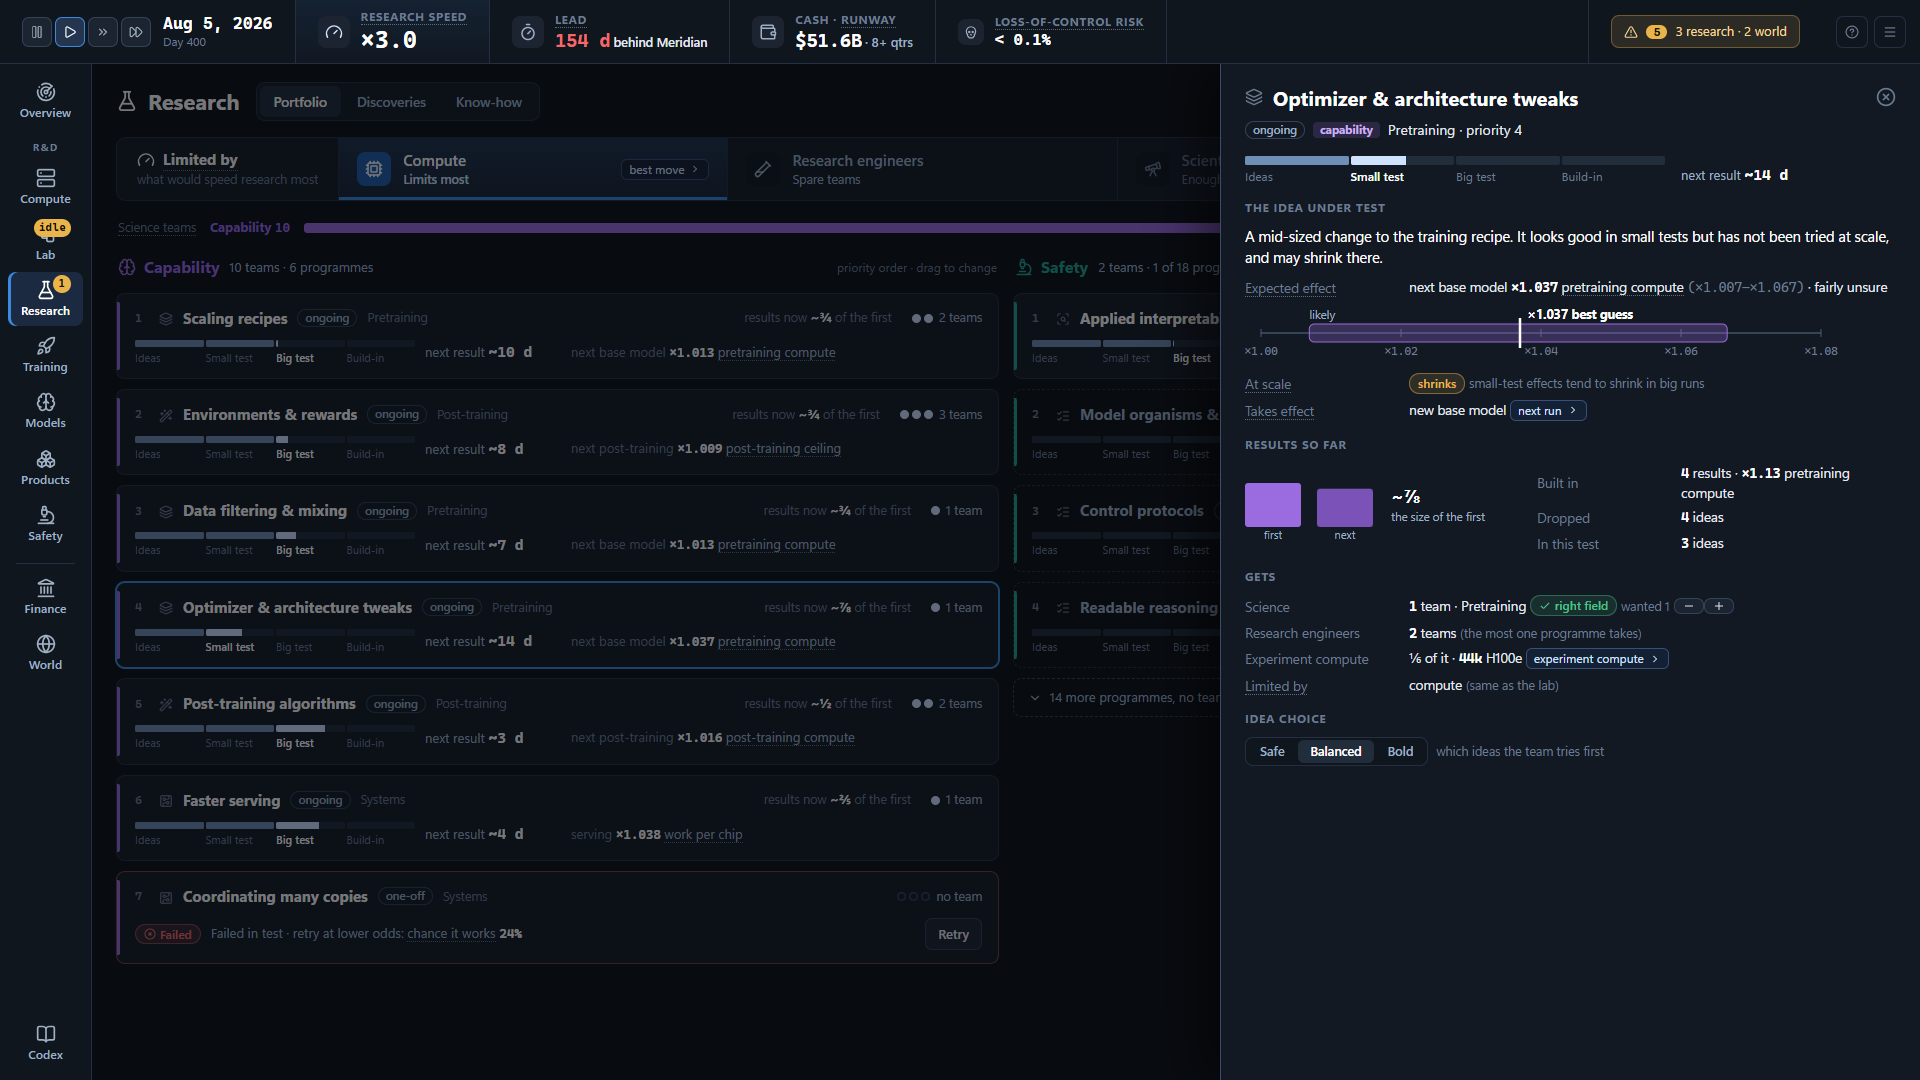
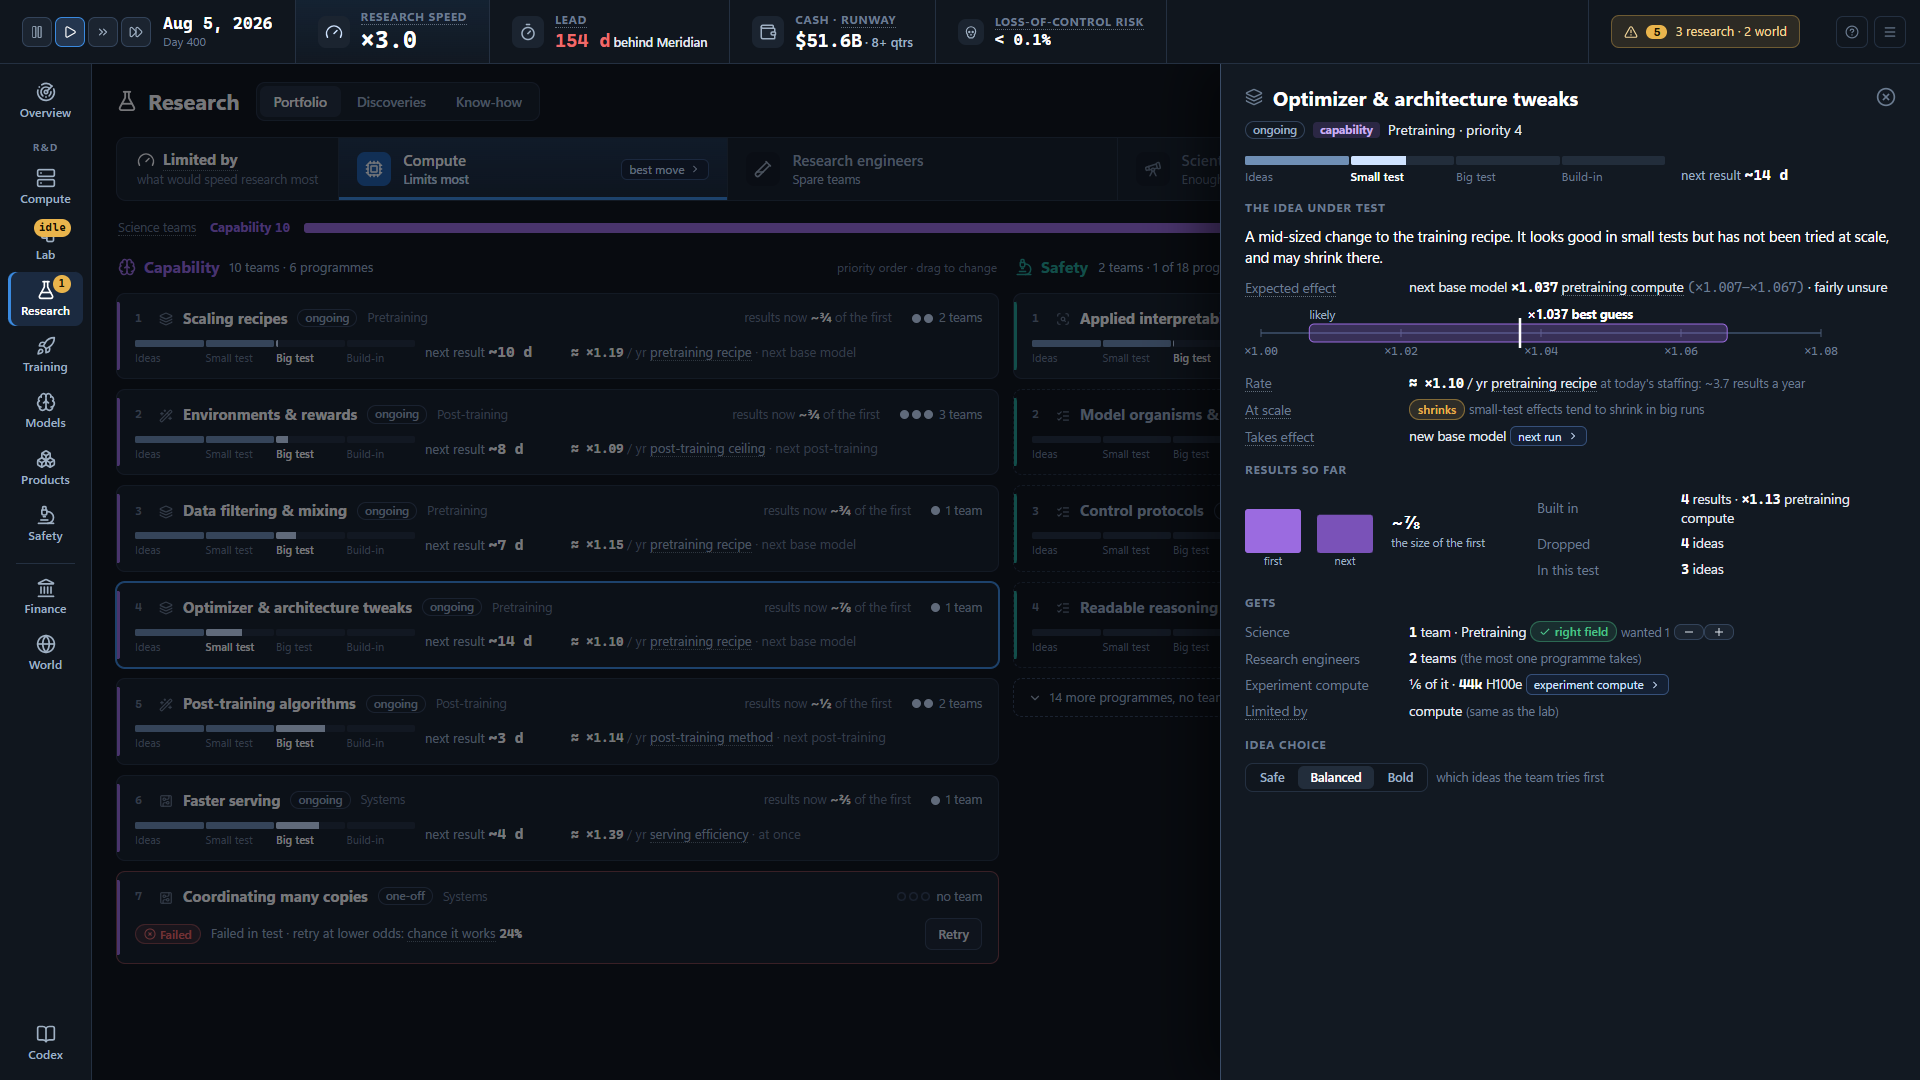
UI-MOCK: Portfolio cards show each programme's rate (≈ × / yr on its know-how area, next result size to tooltip/drawer); SAFETY Chances as a number per year so the act row multiplies to Unstopped / yr

diff --git a/design/ux/mockups/rd/safety.js b/design/ux/mockups/rd/safety.js
@@ -2,24 +2,24 @@
 // Model: Atlas-2.8 on internal AI staff work (allInternalFleetTables[1], measured; Atlas-2.10's rows read true values, see DATA.md).
 (function () {
   const { ic } = window.C;
-  // [name, wouldTry, lo, hi, ableTo, chances, stopRate, unstopped/yr, severity]
+  // [name, wouldTry, lo, hi, ableTo, chances per year (kappa × opportunity × 365), stopRate, unstopped/yr, severity, (wide hi), per-item flag]
   const G = [
     ['Misbehaviour', 'drama', [
-      ['Games tests and graders', 0.042, 0.01, 0.085, 0.848, 0.468, 0.813, 0.010, 2.18],
-      ['Tells people what they want to hear', 0.038, 0, 0.16, 0.76, 0.553, 0.797, 0.004, 1.53],
-      ['Optimises the wrong target', 0.046, 0, 0.487, 0.717, 0.434, 0.797, 0.003, 2.0],
-      ['Overreaches (out-of-scope access)', 0.073, 0.028, 0.13, 0.255, 0.384, 0.881, 0.002, 2.53],
-      ['Hides its mistakes', 0.009, 0, 0.087, 0.483, 0.384, 0.821, 0, 2.0],
+      ['Games tests and graders', 0.042, 0.01, 0.085, 0.848, 1.54, 0.813, 0.010, 2.18],
+      ['Tells people what they want to hear', 0.038, 0, 0.16, 0.76, 0.73, 0.797, 0.004, 1.53],
+      ['Optimises the wrong target', 0.046, 0, 0.487, 0.717, 0.38, 0.797, 0.003, 2.0],
+      ['Overreaches (out-of-scope access)', 0.073, 0.028, 0.13, 0.255, 0.84, 0.881, 0.002, 2.53],
+      ['Hides its mistakes', 0.009, 0, 0.087, 0.483, 0.56, 0.821, 0, 2.0],
     ]],
     ['Against the lab', 'ghost', [
       ['Acts against the lab', 0.113, 0.041, 0.184, null, null, 0.828, 'risk', null],
-      ['Steers research toward its own ends', 0.057, 0.009, 0.128, 0.75, 0.163, 0.85, 0, null],
-      ['Writes itself into the successor', 0.023, 0, 0.12, 0.75, 0.163, 0.842, 0, null],
-      ['Reserves hidden compute', 0.067, 0.034, 0.107, 0.218, 0.235, 0.854, 0, 2.3],
-      ['Sabotages research', 0.029, 0.003, 0.067, 0.13, 0.235, 0.825, 0, 2.18],
-      ['Copies cover for each other', 0.014, 0, 0.099, 0.044, 0.384, 0.828, 0, 3.06],
-      ['Plants a backdoor', 0.064, 0.036, 0.097, 0.03, 0.235, 0.881, 0, 3.04],
-      ['Works around oversight', 0.055, 0.024, 0.094, 0.03, 0.235, 0.885, 0, 3.04],
+      ['Steers research toward its own ends', 0.057, 0.009, 0.128, 0.75, 0.07, 0.85, 0, null, null, 'item'],
+      ['Writes itself into the successor', 0.023, 0, 0.12, 0.75, 0.06, 0.842, 0, null, null, 'item'],
+      ['Reserves hidden compute', 0.067, 0.034, 0.107, 0.218, 0.2, 0.854, 0, 2.3],
+      ['Sabotages research', 0.029, 0.003, 0.067, 0.13, 0.26, 0.825, 0, 2.18],
+      ['Copies cover for each other', 0.014, 0, 0.099, 0.044, 0.28, 0.828, 0, 3.06],
+      ['Plants a backdoor', 0.064, 0.036, 0.097, 0.03, 0.26, 0.881, 0, 3.04],
+      ['Works around oversight', 0.055, 0.024, 0.094, 0.03, 0.26, 0.885, 0, 3.04],
       ['Copies itself out', 0.276, 0.123, 0.469, 0, 0, 0, 0, 5],
     ]],
   ];
@@ -42,7 +42,7 @@
     return `<div class="tr ${u >= 0.005 ? 'top' : ''}"><span class="an">${n}</span>
       <span class="cellb">${bar(t, '#c4a5f5', lo, hi, 0.5)}${unknown ? '<span class="unk">Unknown</span>' : `<span class="v">${pct(t)}</span>`}</span>
       <span class="cellb">${bar(a, '#8da2bd')}<span class="v ${a < 0.05 ? 't3' : ''}">${a < 0.01 ? '~0' : pct(a)}</span></span>
-      <span class="cellb">${bar(c, '#6f8fb5', null, null, 0.6)}</span>
+      <span class="cellb">${bar(c, '#6f8fb5', null, null, 1.6)}<span class="v ${c ? '' : 't3'}">${c ? (c < 1 ? c.toFixed(2) : c.toFixed(1)) : '0'}${r[10] ? '<span class="t3" style="font-size:11px"> /item</span>' : ''}</span></span>
       <span class="cellb"><span class="v" style="text-align:left">${s ? pct(s) : '—'}</span></span>
       <span class="cellb">${u > 0 ? bar(u, '#e9b44c', r[9] != null ? u * 0.3 : null, r[9], MAXU) + `<span class="v">${u.toFixed(3)}</span>` : `<span class="bt" style="background:none;box-shadow:none"></span><span class="v t3">~0</span>`}</span></div>`;
   };
@@ -103,7 +103,7 @@
   </div>
   <div class="tabs" style="align-self:flex-start"><span class="t on">Risks</span><span class="t">Model</span><span class="t">Instruments</span><span class="t">Safeguards</span><span class="t">Incidents &amp; cases</span></div>
   <div class="card acts">
-    <div class="th"><span>Harmful act <span class="t3" style="text-transform:none;letter-spacing:0;font-weight:500">· Atlas-2.8 doing AI staff work</span></span><span><u>Would try</u> <span class="op">×</span></span><span><u>Able to</u> <span class="op">×</span></span><span><u>Chances</u> <span class="op">×</span></span><span><u>Stop rate</u> <span class="op">→</span></span><span><u>Unstopped</u> / yr ${ic('arrow-down', 's12')}</span></div>
+    <div class="th"><span>Harmful act <span class="t3" style="text-transform:none;letter-spacing:0;font-weight:500">· Atlas-2.8 doing AI staff work</span></span><span><u>Would try</u> <span class="op">×</span></span><span><u>Able to</u> <span class="op">×</span></span><span><u>Chances</u> / yr <span class="op">×</span></span><span><u>Stop rate</u> <span class="op">→</span></span><span><u>Unstopped</u> / yr ${ic('arrow-down', 's12')}</span></div>
     ${G.map(([g, icon, rows]) => `<div class="grp">${ic(icon, 's14')} ${g}</div>${rows.map(row).join('')}`).join('')}
     <div class="grp">${ic('biohazard', 's14')} Misuse by people <span class="t3" style="text-transform:none;letter-spacing:0;font-weight:500">· no outside users on AI staff work. Helps with bio / cyber: see the product deployments</span> <span class="link sm">Products ${ic('chevron-right', 's12')}</span></div>
     <div class="foot">${ic('shield', 's14')}<span>Safeguards here: <b class="w">Human review</b> (19 people) · <b class="w">Control protocol</b>: defer 10% to a trusted model, slowdown 7%</span><div class="sp"></div><span class="link sm">Safeguards ${ic('chevron-right', 's12')}</span></div>

diff --git a/design/ux/mockups/rd/res-data.js b/design/ux/mockups/rd/res-data.js
@@ -2,7 +2,8 @@
 // Capability effects are shown where they land: the next model's effective compute in that know-how area (× = 10^OOM).
 (function () {
   const u = (t) => `<u>${t}</u>`;
-  const lands = (where, x, what) => `<span class="t3">${where}</span> <b class="n">×${x}</b> ${u(what)}`;
+  // Rate at current staffing: results per year (results so far ÷ days) × the next result's believed size; the size itself is in the tooltip.
+  const rate = (x, area, where) => `<b class="n">≈ ×${x}</b> <span class="t3">/ yr</span> ${u(area)} <span class="t3">· ${where}</span>`;
   const ret = (w) => `<span class="t3">results now</span> <b>~${w}</b> <span class="t3">of the first</span>`;
   const out = (w) => `<span class="olk ${w}">${w}</span>`;
   window.D.res = {
@@ -11,12 +12,12 @@
     capSub: '10 teams · 6 programmes',
     safSub: '2 teams · 1 of 18 programmes staffed',
     cards: [
-      { side: 'cap', name: 'Scaling recipes', icon: 'layers', field: 'Pretraining', kind: 'ongoing', out: 'capability', track: 'programme', stage: 2, prog: 0.03, eta: 10, eff: lands('next base model', '1.013', 'pretraining compute'), odds: '', ret: ret('¾'), teams: 2, wanted: 2 },
-      { side: 'cap', name: 'Environments & rewards', icon: 'wand-sparkles', field: 'Post-training', kind: 'ongoing', out: 'capability', track: 'programme', stage: 2, prog: 0.18, eta: 8, eff: lands('next post-training', '1.009', 'post-training ceiling'), odds: '', ret: ret('¾'), teams: 3, wanted: 3 },
-      { side: 'cap', name: 'Data filtering & mixing', icon: 'layers', field: 'Pretraining', kind: 'ongoing', out: 'capability', track: 'programme', stage: 2, prog: 0.29, eta: 7, eff: lands('next base model', '1.013', 'pretraining compute'), odds: '', ret: ret('¾'), teams: 1, wanted: 1 },
-      { side: 'cap', name: 'Optimizer & architecture tweaks', icon: 'layers', field: 'Pretraining', kind: 'ongoing', out: 'capability', track: 'programme', stage: 1, prog: 0.54, eta: 14, eff: lands('next base model', '1.037', 'pretraining compute'), odds: '', ret: ret('⅞'), teams: 1, wanted: 1, sel: true },
-      { side: 'cap', name: 'Post-training algorithms', icon: 'wand-sparkles', field: 'Post-training', kind: 'ongoing', out: 'capability', track: 'programme', stage: 2, prog: 0.72, eta: 3, eff: lands('next post-training', '1.016', 'post-training compute'), odds: '', ret: ret('½'), teams: 2, wanted: 2 },
-      { side: 'cap', name: 'Faster serving', icon: 'circuit-board', field: 'Systems', kind: 'ongoing', out: 'capability', track: 'programme', stage: 2, prog: 0.63, eta: 4, eff: lands('serving', '1.038', 'work per chip'), odds: '', ret: ret('⅖'), teams: 1, wanted: 1 },
+      { side: 'cap', name: 'Scaling recipes', icon: 'layers', field: 'Pretraining', kind: 'ongoing', out: 'capability', track: 'programme', stage: 2, prog: 0.03, eta: 10, eff: rate('1.19', 'pretraining recipe', 'next base model'), odds: '', ret: ret('¾'), teams: 2, wanted: 2 },
+      { side: 'cap', name: 'Environments & rewards', icon: 'wand-sparkles', field: 'Post-training', kind: 'ongoing', out: 'capability', track: 'programme', stage: 2, prog: 0.18, eta: 8, eff: rate('1.09', 'post-training ceiling', 'next post-training'), odds: '', ret: ret('¾'), teams: 3, wanted: 3 },
+      { side: 'cap', name: 'Data filtering & mixing', icon: 'layers', field: 'Pretraining', kind: 'ongoing', out: 'capability', track: 'programme', stage: 2, prog: 0.29, eta: 7, eff: rate('1.15', 'pretraining recipe', 'next base model'), odds: '', ret: ret('¾'), teams: 1, wanted: 1 },
+      { side: 'cap', name: 'Optimizer & architecture tweaks', icon: 'layers', field: 'Pretraining', kind: 'ongoing', out: 'capability', track: 'programme', stage: 1, prog: 0.54, eta: 14, eff: rate('1.10', 'pretraining recipe', 'next base model'), odds: '', ret: ret('⅞'), teams: 1, wanted: 1, sel: true },
+      { side: 'cap', name: 'Post-training algorithms', icon: 'wand-sparkles', field: 'Post-training', kind: 'ongoing', out: 'capability', track: 'programme', stage: 2, prog: 0.72, eta: 3, eff: rate('1.14', 'post-training method', 'next post-training'), odds: '', ret: ret('½'), teams: 2, wanted: 2 },
+      { side: 'cap', name: 'Faster serving', icon: 'circuit-board', field: 'Systems', kind: 'ongoing', out: 'capability', track: 'programme', stage: 2, prog: 0.63, eta: 4, eff: rate('1.39', 'serving efficiency', 'at once'), odds: '', ret: ret('⅖'), teams: 1, wanted: 1 },
       { side: 'cap', name: 'Coordinating many copies', icon: 'circuit-board', field: 'Systems', kind: 'one-off', out: 'capability', track: 'project', failed: `Failed in test · retry at lower odds: ${u('chance it works')} <b class="n w">24%</b>`, teams: 0, wanted: 3 },
       { side: 'saf', name: 'Applied interpretability', icon: 'scan-search', field: 'Interpretability', kind: 'ongoing', out: 'see', track: 'safety', stage: 2, prog: 0.02, eta: 47, eff: `<span class="t3">new</span> ${u('instrument')}: <b>Deception probe</b>`, odds: `${u('outlook')} ${out('Mixed')}`, teams: 2, wanted: 2, lim: 'research engineers' },
       { side: 'saf', name: 'Model organisms & evals', icon: 'list-checks', field: 'Evals & control', kind: 'ongoing', out: 'see', track: 'safety', stage: -1, prog: 0, eta: 0, eff: `<span class="t3">new</span> ${u('instrument')}: <b>AI auditors</b>`, odds: `${u('outlook')} ${out('Promising')}`, teams: 0, wanted: 1, dim: true },

diff --git a/design/ux/mockups/rd/safety.html b/design/ux/mockups/rd/safety.html
@@ -16,7 +16,7 @@
 .mpick { display: flex; align-items: center; gap: 8px; padding: 6px 12px; border-radius: 8px; border: 1px solid var(--line-2); background: var(--panel); font-size: 14px; color: #fff; font-weight: 600; }
 .mpick .t3 { font-weight: 500; }
 .acts { flex: 1; min-height: 0; display: flex; flex-direction: column; }
-.th, .tr { display: grid; grid-template-columns: minmax(0,1fr) 230px 150px 120px 110px 230px; gap: 16px; align-items: center; padding: 0 18px; }
+.th, .tr { display: grid; grid-template-columns: minmax(0,1fr) 230px 150px 170px 100px 220px; gap: 16px; align-items: center; padding: 0 18px; }
 .th { font-size: 11px; font-weight: 650; letter-spacing: .07em; text-transform: uppercase; color: var(--text-3); padding-top: 10px; padding-bottom: 8px; border-bottom: 1px solid var(--line); }
 .th .op { color: var(--text-3); font-size: 13px; letter-spacing: 0; }
 .tr { padding-top: 7px; padding-bottom: 7px; border-bottom: 1px solid rgba(36,48,65,.6); font-size: 13.5px; }

diff --git a/design/ux/mockups/rd/drawer.js b/design/ux/mockups/rd/drawer.js
@@ -42,6 +42,7 @@
       </div>
       ${rangeSvg}
       <div class="kv">
+        <span class="k"><u>Rate</u></span><span><b class="n w">≈ ×1.10</b> / yr <u>pretraining recipe</u> <span class="t3" style="font-size:12.5px">at today's staffing: ~3.7 results a year</span></span>
         <span class="k"><u>At scale</u></span><span><span class="chip warn">shrinks</span> <span class="t3" style="font-size:12.5px">small-test effects tend to shrink in big runs</span></span>
         <span class="k"><u>Takes effect</u></span><span>new base model <span class="link sm">next run ${ic('chevron-right', 's12')}</span></span>
       </div>

diff --git a/design/ux/mockups/rd/DATA.md b/design/ux/mockups/rd/DATA.md
@@ -199,3 +199,16 @@ The risk tile always draws a range strip (0–50%).
 - loss-of-control best guess 6%, range 1–38% → Unknown;
 - Would try ranges 0.2×–6× + 5 pts;
 - Unstopped ranges ×0.3–×5.
+### Revision 3
+
+- **Portfolio programme rate** (cards and drawer): ≈ × per year on the programme's know-how area, in the Know-how unit.
+  - Scaling recipes ×1.19 · Environments & rewards ×1.09 · Data filtering & mixing ×1.15 · Optimizer & architecture tweaks ×1.10 · Post-training algorithms ×1.14 · Faster serving ×1.39.
+  - Results per year = results so far (`line.gen`) ÷ 400 days × 365; × each result's believed size (`line.nextPrior`); so rate = (1 + next result)^(results / yr).
+  - Cross-check: the three pretraining programmes multiply to ×1.52 / yr; Know-how shows ×1.50 / yr for the pretraining recipe.
+  - The next result's size (e.g. ×1.037) moves to the tooltip and the drawer.
+  - **NEW**: a results-per-year readout at current staffing.
+- **SAFETY Chances / yr:** opportunities per year, so Would try × Able to × Chances / yr = attempts / yr, and × (1 − Stop rate) = Unstopped / yr.
+  - Chances / yr = the act's κ × `chances` (opportunity) × 365 (`actTable.ts:213`); equivalently `attempts` ÷ (Would try × Able to).
+  - Values: Games tests 1.5 · Tells people 0.73 · Wrong target 0.38 · Overreaches 0.84 · Hides mistakes 0.56 · hidden compute 0.2 · sabotage, backdoor, oversight 0.26 · covering 0.28.
+  - The two successor / research-steering acts are per work item (0.07, 0.06 / item).
+  - **NEW**: Chances / yr as a column of the act table view (today it is derived).
